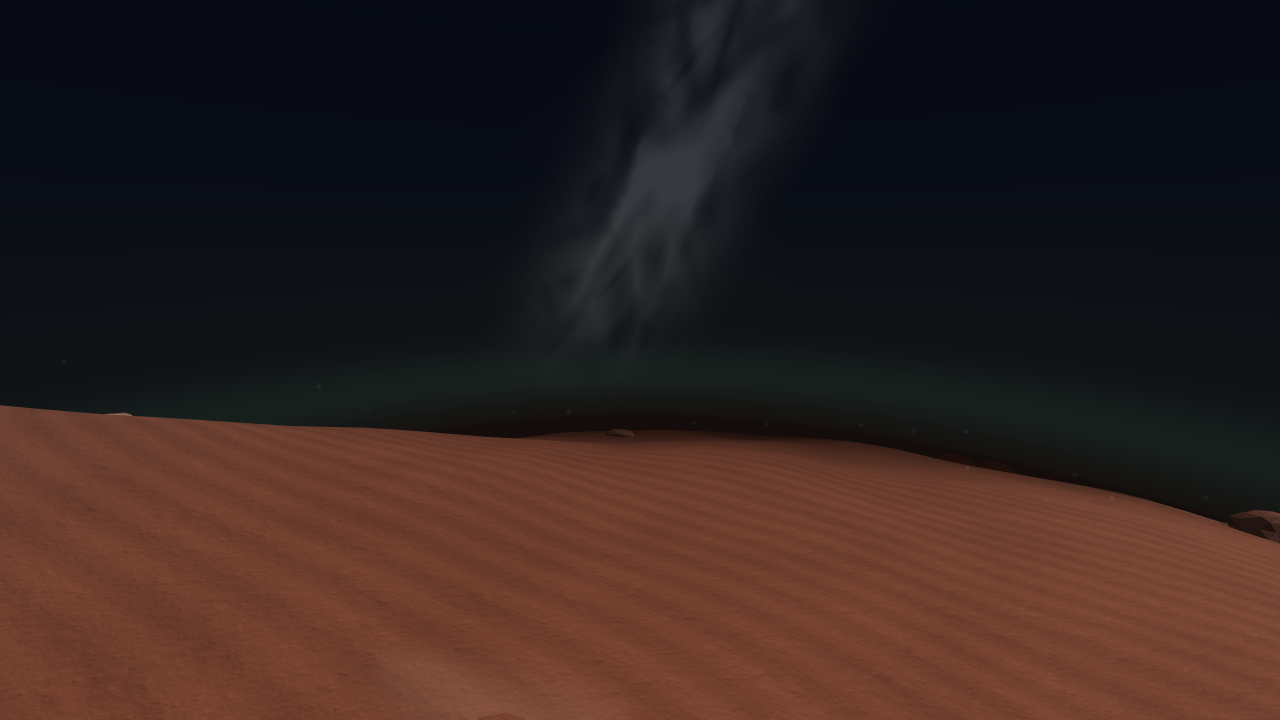
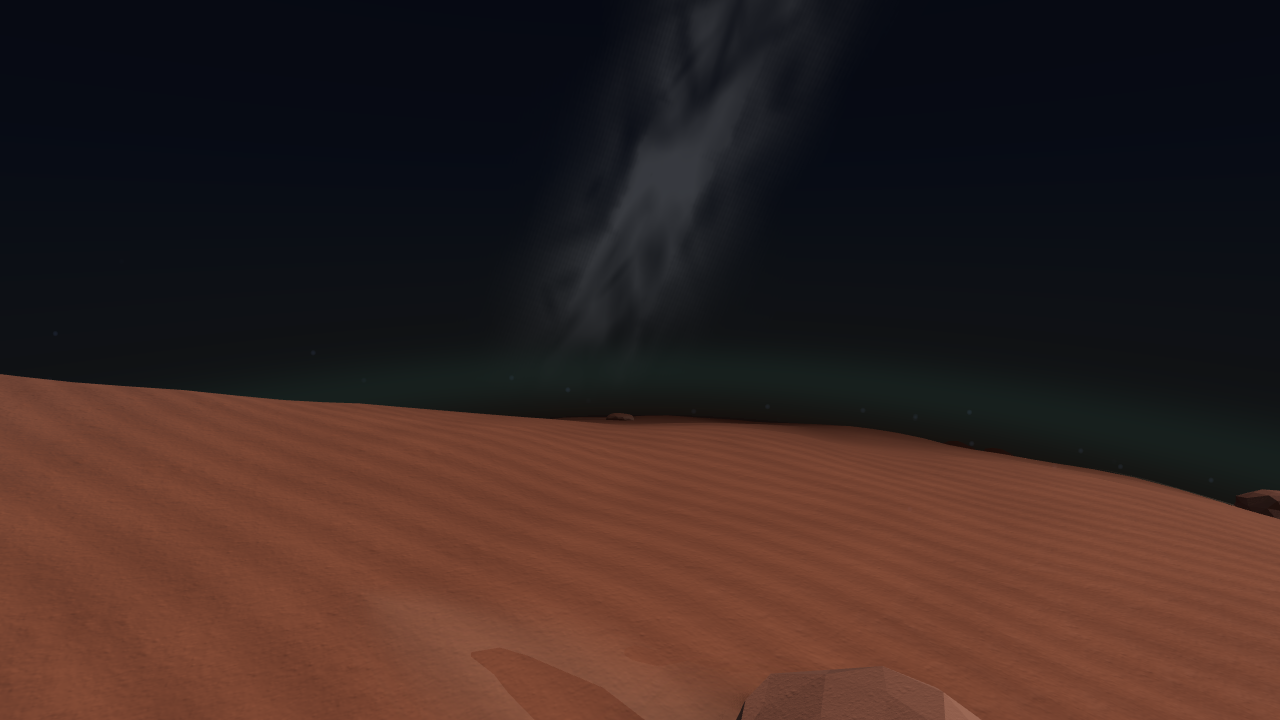
Der Rundgang steht wieder auf dem Boden, das Mondlicht zielt auf die Mitte
Sichtbar anders: rund-060 ist wieder ein Bild — ein gewoelbter Hang, ein
Monolith auf dem Kamm, die Staubsaeule dahinter. Vorher lief eine
mathematisch gerade Kante quer hindurch, darunter fast Schwarz.

Der Pruefer hat die Kante gemeldet und nachgemessen: 560 px, Abweichung
von der Geraden null. Er hatte recht, und der Fehler stand im Werkzeug.
tools/rundgang.mjs hat fuer alle zwoelf Stationen die Augenhoehe von
Station 0 behalten; der Boden unter dem Nordpol schwankt aber ueber den
Rundgang zwischen -1,12 und +2,11 m. Bei Station 60 lag das Auge 4 cm
ueber dem Gelaende — ein Strahl durch die Bildmitte traf nacht-planet in
0,1 m. Die gerade Kante war die Bodenflaeche, von der Nasenspitze aus
gesehen.

Ein echter Fehler kam bei der Suche trotzdem heraus: Das Ziel des
Mondlichts stand als (0|-25|0) IN der Himmelsgruppe — der
Planetenmittelpunkt nur solange die Welt unverdreht steht. Bei 60 Grad
steht es 25 m daneben, bei 180 Grad 50 m. Die Orthobox der Schattenkarte
deckte damit nicht mehr den ganzen Planeten ab. Zugeordnet statt
behauptet: Der Unterschied zwischen altem und neuem Ziel ist bei Station
60 Delta-Mittel 1,124 bei Delta-max 3, bei Station 180 exakt null — real,
aber klein, und die gerade Kante hat er nicht verursacht.

tools/rundgang.mjs findet diesen Fehlertyp jetzt selbst: laengste Kante
mit Gelaende auf BEIDEN Seiten (Boden warm, R > B; Himmel kuehl),
Ausgleichsgerade, groesste Abweichung. Die Helligkeitsstatistik hat den
[…]

diff --git a/src/environments.js b/src/environments.js
@@ -6519,10 +6519,22 @@ function createNightEnvironment() {
   // In der Himmelsgruppe, also dreht das Licht mit dem Mond mit: Wer um den
   // Planeten läuft, läuft in die Nacht hinein und wieder heraus.
   moonLight.position.copy(MOND_RICHTUNG).multiplyScalar(MOND_FERN);
-  // Ziel ist der **Planetenmittelpunkt**. Der liegt in der Himmelsgruppe bei
-  // (0 | −PLANET_R | 0), weil die Gruppe am Nordpol sitzt.
-  moonLight.target.position.set(0, -PLANET_R, 0);
-  himmelGruppe.add(moonLight.target);
+  // **Das Ziel darf NICHT mitdrehen.** Es lag als (0 | −PLANET_R | 0) in der
+  // Himmelsgruppe, weil die am Nordpol sitzt — und solange die Welt unverdreht
+  // stand, war das der Planetenmittelpunkt. Sobald sie sich dreht, ist es das
+  // nicht mehr: Bei 60 Grad steht das Ziel bei (0 | 12,5 | −21,7), also 25 m
+  // neben dem Mittelpunkt, und die Orthobox von ±34 m deckte nur noch einen
+  // Streifen des Planeten ab. Im Bild `rund-060` stand daraufhin ein heller
+  // Streifen mit **zwei mathematisch geraden Kanten** quer über die Kugel, und
+  // dahinter fiel alles in den Schatten. Auf einer Kugel gibt es keine geraden
+  // Kanten; der Prüfer hat sie über 560 Bildpunkte mit null Abweichung
+  // nachgemessen.
+  //
+  // Das Ziel hängt deshalb an der **Umgebungsgruppe** und steht im Ursprung —
+  // dort liegt der Planetenmittelpunkt, unabhängig von jeder Drehung. Die
+  // Lichtquelle selbst bleibt in der Himmelsgruppe und wandert mit dem Mond.
+  moonLight.target.position.set(0, 0, 0);
+  group.add(moonLight.target);
   moonLight.castShadow = true;
   moonLight.shadow.mapSize.set(2048, 2048);
   {
@@ -6533,14 +6545,19 @@ function createNightEnvironment() {
     // die höchste Landmarke ragt 9 m darüber hinaus — mit ±30 wäre sie am Rand
     // der Karte abgeschnitten und stünde ohne Schlagschatten da. 68 m auf 2048
     // Texel sind 3,3 cm, immer noch feiner als die 3,9 cm der Platte.
-    // Die Tiefengrenzen umschließen den Planeten bei 300 m Lichtabstand.
+    // **Die Tiefengrenzen müssen die Wanderung des Lichts aushalten.** Der Mond
+    // steht 300 m vom **Nordpol**, nicht vom Mittelpunkt — beim Rundgang
+    // schwankt sein Abstand zum Mittelpunkt deshalb zwischen 275 und 325 m.
+    // Mit dem Planeten samt Landmarken bis 34 m um den Mittelpunkt liegt der
+    // gebrauchte Tiefenbereich bei 241 bis 359 m; die alten 250 bis 360 hätten
+    // in der ungünstigsten Stellung neun Meter davon abgeschnitten.
     const sc = moonLight.shadow.camera;
     sc.left = -34;
     sc.right = 34;
     sc.top = 34;
     sc.bottom = -34;
-    sc.near = 250;
-    sc.far = 360;
+    sc.near = 235;
+    sc.far = 365;
     sc.updateProjectionMatrix();
     // Der Normal-Bias darf nicht in die Größenordnung der Objekte kommen – im
     // Zen-Garten hat 0,03 die 6 cm dicken Trittsteine um ihren Schatten

diff --git a/prompts/nachthimmel-log.md b/prompts/nachthimmel-log.md
@@ -1533,6 +1533,43 @@ von dort reicht die Kuppel von 226 bis 374 m.
 diese eine Kamera, die als einzige außerhalb der Modellannahme steht. In der
 Brille kann diese Ansicht niemand einnehmen.
 
+## Der Prüfer ist zurück — und der schlimmste Befund war mein Messstand
+
+Nach acht Durchläufen ohne unbefangenes Urteil hat der Prüfer wieder gearbeitet.
+Sein auffälligster Befund: In `rund-060` läuft von (700 | 704) bis (1260 | 459)
+eine **mathematisch gerade Kante** durch den Boden, darunter fast Schwarz. Er hat
+sie über 560 Bildpunkte nachgemessen — Abweichung von der Geraden **null**. Auf
+einer Kugel gibt es keine geraden Kanten.
+
+Er hatte recht, und der Fehler stand im Werkzeug. `tools/rundgang.mjs` hat für
+alle zwölf Stationen die Augenhöhe von Station 0 behalten (26,94 m). Der Boden
+unter dem Nordpol ist aber nicht überall gleich hoch — er schwankt über den
+Rundgang zwischen −1,12 und +2,11 m. Bei Station 60 lag das Auge damit **4 cm
+über dem Gelände**: Ein Strahl durch die Bildmitte traf `nacht-planet` in 0,1 m.
+Die „gerade Kante" war die Bodenfläche, von der Nasenspitze aus gesehen, und die
+ist über wenige Meter eben. Die Augenhöhe kommt jetzt je Station aus demselben
+Höhenfeld, aus dem sie die Sperre im Betrieb nimmt.
+
+**Ein echter Fehler kam bei der Suche trotzdem heraus, nur ein kleinerer.** Das
+Ziel des Mondlichts stand als (0 | −PLANET_R | 0) **in der Himmelsgruppe** — der
+Planetenmittelpunkt, solange die Welt unverdreht steht. Bei 60 Grad steht es bei
+(0 | 12,5 | −21,65), also 25 m daneben, bei 180 Grad bei (0 | 50 | 0). Die
+Orthobox der Schattenkarte von ±34 m deckte damit nicht mehr den ganzen Planeten
+ab. Das Ziel hängt jetzt an der Umgebungsgruppe im Ursprung.
+
+**Zugeordnet, nicht behauptet:** Der Unterschied zwischen altem und neuem Ziel
+beträgt bei Station 60 Δmittel 1,124 bei einem Δmax von **3** Stufen und bei
+Station 180 exakt null. Der Fehler war real, seine Bildwirkung war klein — die
+gerade Kante hat er **nicht** verursacht.
+
+Und `tools/rundgang.mjs` kann diesen Fehlertyp jetzt selbst finden: Es sucht je
+Station die längste Kante, **die auf beiden Seiten Gelände hat** (Boden ist warm,
+R > B; Himmel ist kühl — dasselbe Kriterium wie `tools/horizont.mjs`), legt eine
+Ausgleichsgerade hindurch und meldet die größte Abweichung. Die
+Helligkeitsstatistik allein hat den Streifen nicht gesehen: Ein halb so heller
+Streifen verschiebt Mittel und Perzentile um wenige Stufen und sieht aus wie eine
+Wolke. **Ein Bildmaß muss die Form messen, nicht nur die Menge.**
+
 ### Neue Werkzeuge
 
 * `tools/strahl.mjs` — **was steht in diesem Pixel.** Die Lehre aus Paket 7 als
